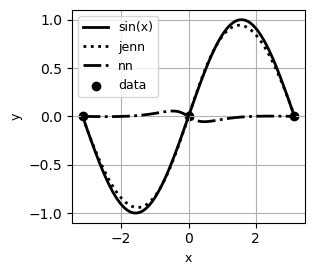
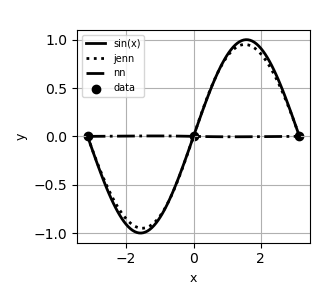
#35: docs updated

diff --git a/src/jenn/core/model.py b/src/jenn/core/model.py
@@ -14,7 +14,7 @@ functions doing computations under-the-hood.
     import jenn
 
     # Fit model
-    nn = jenn.model.NeuralNet(
+    model = jenn.NeuralNet(
         layer_sizes=[
             x_train.shape[0],  # input layer
             7, 7,              # hidden layer(s) -- user defined
@@ -25,16 +25,16 @@ functions doing computations under-the-hood.
         )
 
     # Predict response only
-    y_pred = nn.predict(x_test)
+    y_pred = model.predict(x_test)
 
     # Predict partials only
-    dydx_pred = nn.predict_partials(x_train)
+    dydx_pred = model.predict_partials(x_train)
 
     # Predict response and partials in one step (preferred)
-    y_pred, dydx_pred = nn.evaluate(x_test)
+    y_pred, dydx_pred = model(x_test)
 
 .. note::
-    The method `evaluate()` is preferred over separately
+    The `__call__()` method should be preferred over separately
     calling `predict()` followed by `predict_partials()`
     whenever both the response and its partials are needed at the same point.
     This saves computations since, in the latter approach, forward propagation
@@ -53,7 +53,7 @@ from typing import TYPE_CHECKING
 
 if TYPE_CHECKING:
     from pathlib import Path
-    from typing import Any
+    from typing import Any, Self
 
     import numpy as np
 
@@ -113,8 +113,13 @@ class NeuralNet:
         is_backtracking: bool = False,
         is_warmstart: bool = False,
         is_verbose: bool = False,
-    ) -> NeuralNet:
+    ) -> Self:
         r"""Train neural network.
+
+        .. note::
+            If training is taking too long, it can be stopped gracefully
+            by creating a local file called STOP in the running directory. Just be
+            sure to delete it before the next run.
 
         :param x: training data inputs, array of shape (n_x, m)
         :param y: training data outputs, array of shape (n_y, m)
@@ -204,7 +209,7 @@ class NeuralNet:
         return y
 
     def predict_partials(self, x: np.ndarray) -> np.ndarray:
-        r"""Predict partials.
+        r"""Predict partials derivatives.
 
         :param x: vectorized inputs, array of shape (n_x, m)
         :return: predicted partial(s), array of shape (n_y, n_x, m)
@@ -217,7 +222,7 @@ class NeuralNet:
         return dydx
 
     def __call__(self, x: np.ndarray) -> tuple[np.ndarray, np.ndarray]:
-        r"""Predict responses and their partials.
+        r"""Predict responses and their partial derivatives.
 
         :param x: vectorized inputs, array of shape (n_x, m)
         :return: predicted response(s), array of shape (n_y, m)

diff --git a/src/jenn/post_processing/_actual_by_predicted.py b/src/jenn/post_processing/_actual_by_predicted.py
@@ -23,10 +23,12 @@ def plot_actual_by_predicted(
     alpha: float = 0.5,
     ax: plt.Axes | None = None,
 ) -> Figure | SubFigure | None:
-    """Plot predicted vs. actual value.
+    r"""Plot predicted vs. actual value.
 
     .. note::
-        This method uses ravel(). A NumPy array with shape (n_y, m) becomes (n_y * m,).
+        This method uses ravel(). A NumPy array with shape :math:`(n_y, m)` will become :math:`(n_y m,)`.
+        This is useful to merge all responses in one plot. Use indexing to handle responses separately,
+        e.g. :code:`jenn.plot_actual_by_predicted(y_pred=model.predict(x=x_test[2]), y_true=y_test[2])`.
 
     :param y_pred: predicted values for each dataset, list of arrays of shape (m,)
     :param y_true: true values for each dataset, list of arrays of shape (m,)

diff --git a/src/jenn/post_processing/_residual_by_predicted.py b/src/jenn/post_processing/_residual_by_predicted.py
@@ -25,7 +25,9 @@ def plot_residual_by_predicted(
     """Plot prediction error vs. predicted value.
 
     .. note::
-        This method uses ravel(). A NumPy array with shape (n_y, m) becomes (n_y * m,).
+        This method uses ravel(). A NumPy array with shape :math:`(n_y, m)` will become :math:`(n_y m,)`.
+        This is useful to merge all responses in one plot. Use indexing to handle responses separately,
+        e.g. :code:`jenn.plot_actual_by_predicted(y_pred=model.predict(x=x_test[2]), y_true=y_test[2])`.
 
     :param y_pred: predicted values for each dataset, list of arrays of shape (m,)
     :param y_true: true values for each dataset, list of arrays of shape (m,)

diff --git a/src/jenn/core/training.py b/src/jenn/core/training.py
@@ -102,6 +102,11 @@ def train_model(
 ) -> dict:
     r"""Train neural net.
 
+    .. note::
+        If training is taking too long, it can be stopped gracefully
+        by creating a local file called STOP in the running directory. Just be
+        sure to delete it before the next run.
+
     :param data: object containing training and associated metadata
     :param parameters: object that stores neural net parameters for each
         layer

diff --git a/docs/source/conf.py b/docs/source/conf.py
@@ -38,6 +38,7 @@ extensions = [
     "sphinx.ext.mathjax",
     "sphinx.ext.viewcode",
     "sphinx_rtd_theme",
+    "sphinx_copybutton",
 ]
 templates_path = ["_templates"]
 html_static_path = ["_static"]

diff --git a/src/jenn/post_processing/__init__.py b/src/jenn/post_processing/__init__.py
@@ -1,4 +1,3 @@
-"""Post-processing module entry point."""
 # Copyright (C) 2018 Steven H. Berguin
 # This work is licensed under the MIT License.
 

diff --git a/src/jenn/synthetic_data/__init__.py b/src/jenn/synthetic_data/__init__.py
@@ -1,4 +1,3 @@
-"""Synthetic data module entry point."""
 # Copyright (C) 2018 Steven H. Berguin
 # This work is licensed under the MIT License.
 

diff --git a/src/jenn/utilities/__init__.py b/src/jenn/utilities/__init__.py
@@ -1,4 +1,3 @@
-"""Utils module entry point."""
 # Copyright (C) 2018 Steven H. Berguin
 # This work is licensed under the MIT License.
 

diff --git a/src/jenn/__init__.py b/src/jenn/__init__.py
@@ -1,4 +1,3 @@
-"""JENN entry point."""
 # Copyright (C) 2018 Steven H. Berguin
 # This work is licensed under the MIT License.
 

diff --git a/docs/source/sections/quickstart.rst b/docs/source/sections/quickstart.rst
@@ -5,14 +5,9 @@
 Installation 
 ------------
 
-The core algorithm is written in Python 3 and requires only `numpy` and `orjson` (for serialization):: 
+The core algorithm is written in Python 3. It requires `numpy` for computations, `orjson`, `jsonpointer` and `jsonschema` for serialization, and `matplotlib` for visualization:: 
 
     pip install jenn 
-
-The `matplotlib` library is used to offer basic plotting utilities, such as checking goodness of fit 
-or viewing sensitivity profiles, but it is entirely optional. To install:: 
-
-    pip install jenn[viz]
 
 Data Structures
 ---------------
@@ -178,59 +173,98 @@ Usage
 This section provides a quick example to get started. Consider the task of fitting 
 a simple 1D sinusoid using only three data points:: 
 
-    import numpy as np 
-    import jenn 
+    import numpy as np
+    import jenn
 
-    # Example function to be learned 
-    f = lambda x: np.sin(x)  
-    f_prime = lambda x: np.cos(x).reshape((1, 1, -1))  # note: jacobian adds a dimension
 
-    # Generate training data 
+    #########################
+    # Example Test Function # 
+    #########################
+
+    def f(x): 
+        """Compute response."""
+        return np.sin(x)
+        
+        
+    def f_prime(x): 
+        """Compute partials."""
+        return np.cos(x).reshape((1, 1, -1))  # note: jacobian adds a dimension
+
+
+    ##########################
+    # Generate Training Data #
+    ##########################
+
     x_train = np.linspace(-np.pi , np.pi, 3).reshape((1, -1))
     y_train = f(x_train)
     dydx_train = f_prime(x_train)
 
-    # Generate test data 
+
+    ######################
+    # Generate Test Data #
+    ######################
+
     x_test = np.linspace(-np.pi , np.pi, 30).reshape((1, -1))
     y_test = f(x_test)
     dydx_test = f_prime(x_test)
 
-    # Fit jacobian-enhanced neural net
-    genn = jenn.model.NeuralNet(
-        layer_sizes=[x_train.shape[0], 3, 3, y_train.shape[0]],  # note: user defines hidden layer architecture
-        ).fit(
-            x_train, y_train, dydx_train, random_state=123  # see docstr for full list of hyperparameters
-        )
 
-    # Fit regular neural net (for comparison)
-    nn = jenn.model.NeuralNet(
+    ##################
+    # Fit Regular NN # 
+    ##################
+
+    regular_model = jenn.NeuralNet(
         layer_sizes=[x_train.shape[0], 3, 3, y_train.shape[0]]  # note: user defines hidden layer architecture
         ).fit(
             x_train, y_train, random_state=123  # see docstr for full list of hyperparameters
         )
 
-    # Predict response only 
-    y_pred = genn.predict(x_test)
 
-    # Predict partials only 
-    dydx_pred = genn.predict_partials(x_train)
+    ############
+    # Fit JENN # 
+    ############
 
-    # Predict response and partials in one step 
-    y_pred, dydx_pred = genn.evaluate(x_test) 
+    enhanced_model = jenn.NeuralNet(
+        layer_sizes=[x_train.shape[0], 3, 3, y_train.shape[0]],  # note: user defines hidden layer architecture
+        ).fit(
+            x_train, y_train, dydx_train, random_state=123  # see docstr for full list of hyperparameters
+        )
 
-    # Check how well model generalizes 
-    assert jenn.utils.metrics.r_square(y_pred, y_test) > 0.99
-    assert jenn.utils.metrics.r_square(dydx_pred, dydx_test) > 0.99
+
+    ####################
+    # Predict Response # 
+    ####################
+
+    y_pred = enhanced_model.predict(x_test)
+
+
+    ####################
+    # Predict Partials # 
+    ####################
+
+    dydx_pred = enhanced_model.predict_partials(x_train)
+
+    
+    ###########################################
+    # Predict Response & Partials In One Step # 
+    ###########################################
+
+    y_pred, dydx_pred = enhanced_model(x_test)
+
+
+    # Check how well model generalizes
+    assert jenn.metrics.rsquare(y_pred, y_test) > 0.99
+    assert jenn.metrics.rsquare(dydx_pred, dydx_test) > 0.99
 
 Saving a model for later re-use::
 
-    genn.save("parameters.json")
+    enhanced_model.save("parameters.json")
 
 Reloading the parameters a previously trained model::
 
-    new_model = jenn.model.NeuralNet(layer_sizes=[1, 12, 1]).load('parameters.json')
+    reloaded_model = jenn.NeuralNet.load('parameters.json')
 
-    y_reloaded, dydx_reloaded = new_model.evaluate(x_test) 
+    y_reloaded, dydx_reloaded = reloaded_model(x_test) 
 
     assert np.allclose(y_reloaded, y_pred)
     assert np.allclose(dydx_reloaded, dydx_pred)
@@ -246,31 +280,29 @@ Other features
 Plotting
 ........
 
-Optional plotting tools are available for convenience, provided `matplotlib` is installed:: 
-
-    from jenn.utils import plot 
+For convenience, plotting tools are available using `matplotlib`. Continuing the previous example:: 
 
     # Example: show goodness of fit of the partials 
-    plot.goodness_of_fit(
-        y_true=dydx_test[0], 
-        y_pred=genn.predict_partials(x_test)[0], 
-        title="Partial Derivative: dy/dx (NN)"
+    jenn.plot_goodness_of_fit(
+        y_true=dydx_test, 
+        y_pred=enhanced_model.predict_partials(x_test), 
+        title="Partial Derivative: dy/dx (jenn)"
     )
 
 .. image:: ../../pics/example_goodness_of_fit.png
-  :width: 500
+  :width: 750
 
 ::
 
     # Example: visualize local trends
-    plot.sensitivity_profiles(
-        f=[f, genn.predict, nn.predict], 
+    jenn.plot_sensitivity_profiles(
+        func=[f, enhanced_model.predict, regular_model.predict], 
         x_min=x_train.min(), 
         x_max=x_train.max(), 
         x_true=x_train, 
         y_true=y_train, 
         resolution=100, 
-        legend=['sin(x)', 'jenn', 'nn'], 
+        legend_label=['sin(x)', 'jenn', 'nn'], 
         xlabels=['x'], 
         ylabels=['y'],
         show_cursor=False
@@ -284,13 +316,13 @@ Load `JMP`_ models into Python
 
 Not all engineers are Python enthusiasts. Sometimes, using JMP allows progress to be made fast 
 without writing code. In fact, JMP  sometimes markets their software as machine learning without code. 
-However, once a model is trained, it often needs to be loaded into Python
+Once a model is trained though, it often needs to be loaded into Python
 where it can be used in conjunction with other analyses. Here's how to do it with JENN, where 
 the equation is obtained using "Save Profile Formulas" in JMP:
 
 :: 
 
-    jmp_model = jenn.utils.from_jmp(equation="""
+    jmp_model = jenn.utilities.from_jmp(equation="""
         6.63968579427224 + 2419.53609389846 * TanH(
             0.5 * (1.17629679110012 + -0.350827466968853 * :x1 + -0.441135986242386 * :x2)
         ) + 926.302874298947 * TanH(
@@ -317,4 +349,4 @@ the equation is obtained using "Save Profile Formulas" in JMP:
             0.5 * (2.21033919158451 + -0.696779972041321 * :x1 + -1.69376087699982 * :x2)
         )
     """)
-    y, dy_dx = jmp_model.evaluate(x=np.array([[0.5], [0.25]]))
+    y, dy_dx = jmp_model(x=np.array([[0.5], [0.25]]))

diff --git a/README.md b/README.md
@@ -2,7 +2,7 @@
 
 Jacobian-Enhanced Neural Networks (JENN) are fully connected multi-layer
 perceptrons, whose training process is modified to predict partial 
-derivatives accurately. This is accomplished by minimizing a modified version 
+derivatives more accurately. This is accomplished by minimizing a modified version 
 of the Least Squares Estimator (LSE) that accounts for Jacobian prediction error (see [paper](https://doi.org/10.48550/arXiv.2406.09132)). 
 The main benefit of jacobian-enhancement is better accuracy with
 fewer training points compared to standard fully connected neural nets, as illustrated below. 

diff --git a/docs/source/sections/api.rst b/docs/source/sections/api.rst
@@ -20,6 +20,9 @@ Core API
 
 The core API implements all theory described in the `paper`_. This section is intended for developers.  
 
+.. automodule:: jenn.core.model
+   :members:
+
 .. automodule:: jenn.core.activation
    :members:
 
